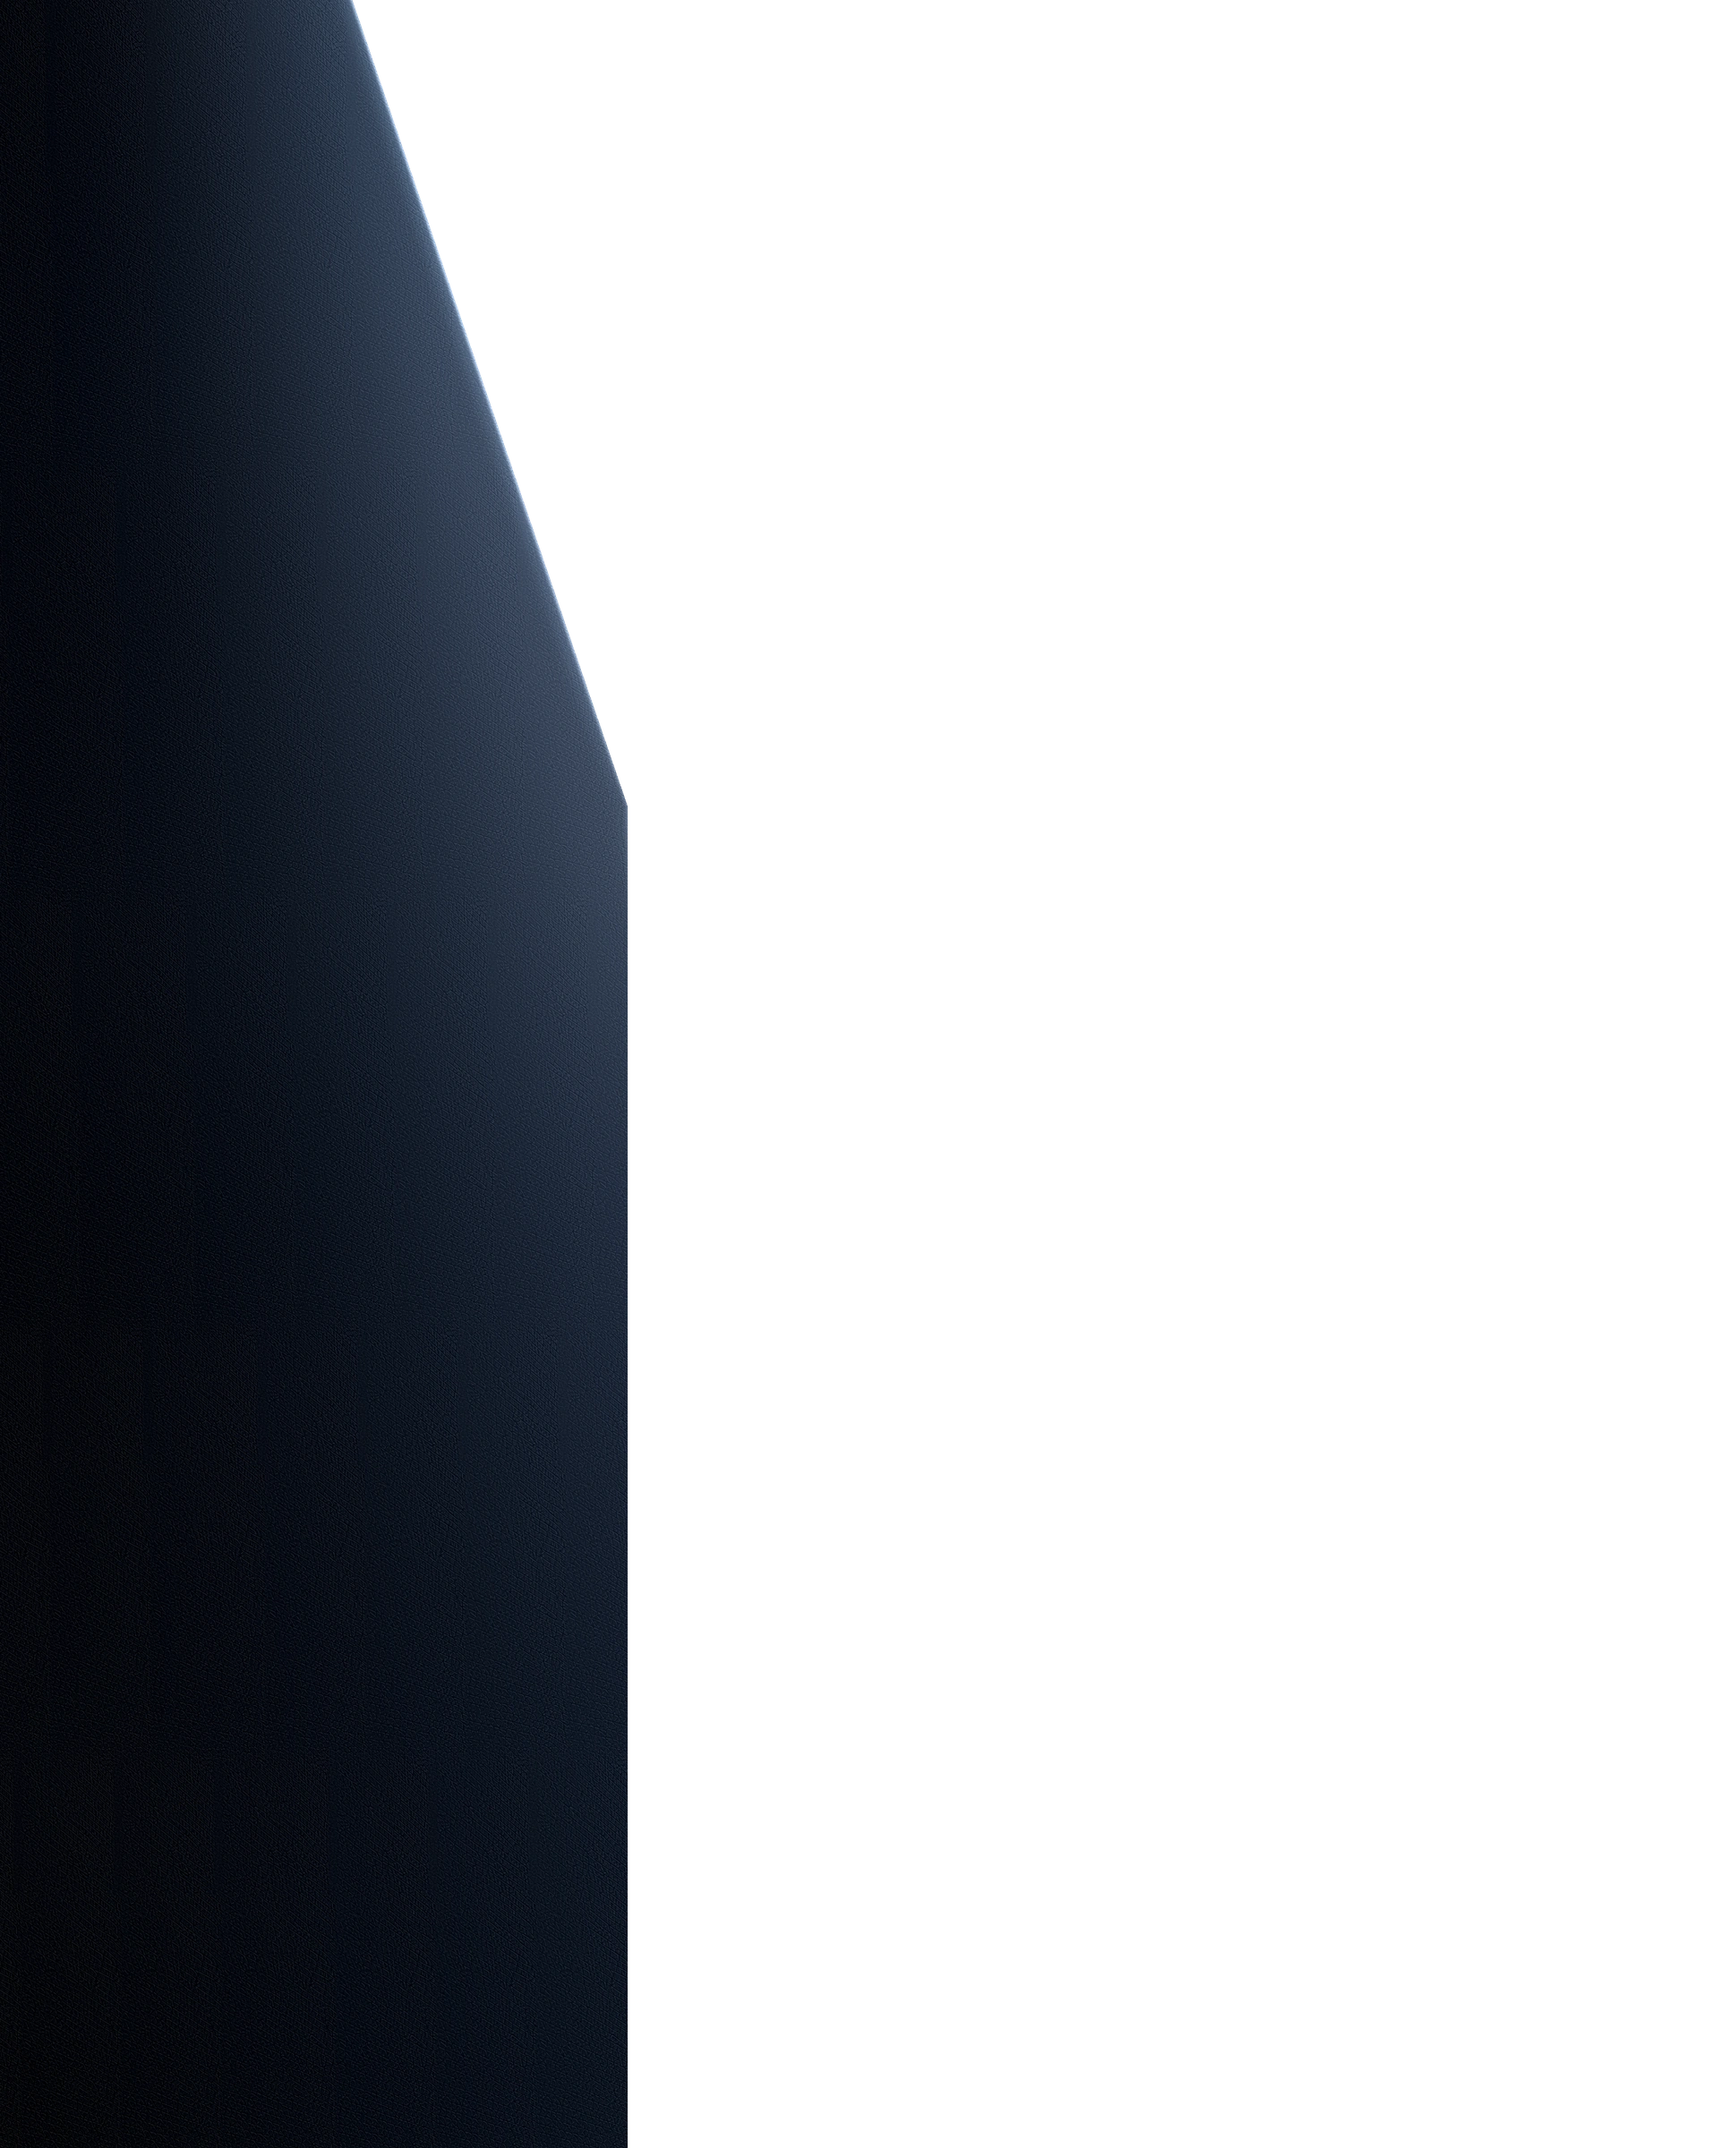
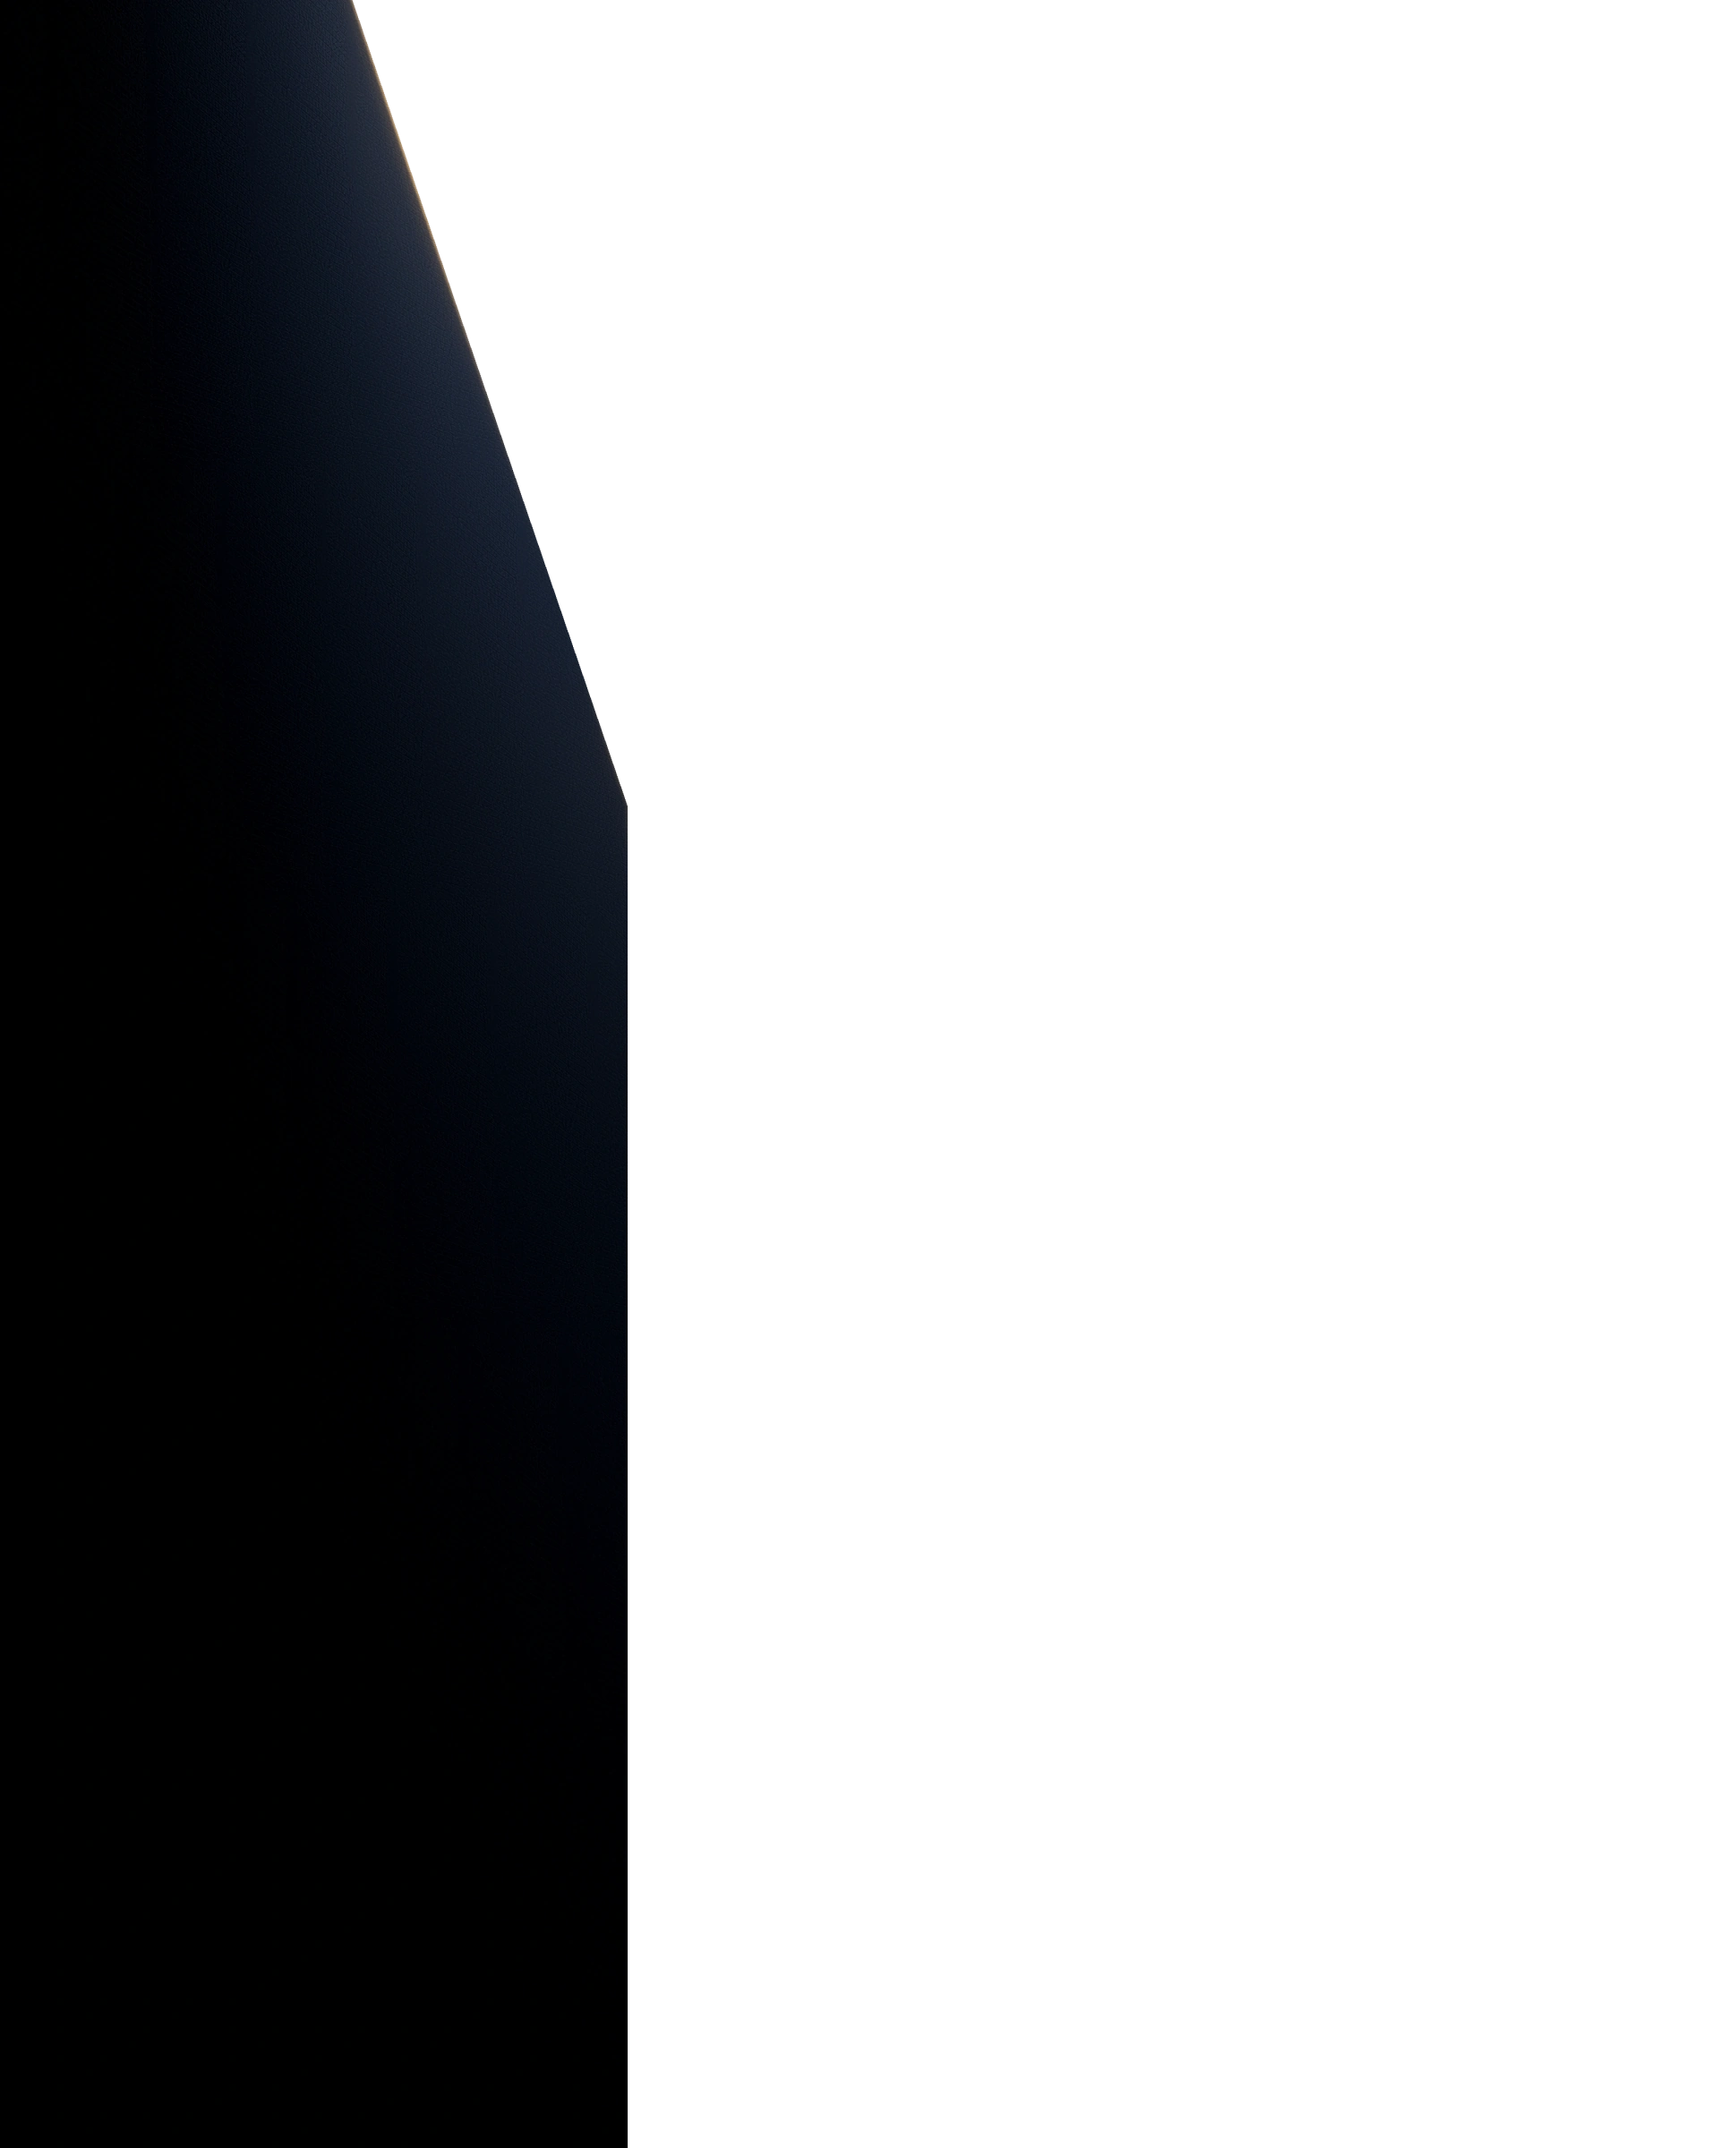
feat: sync responsive dark wall variants

Changed region(s): [[0.0312, 0.0, 0.375, 1.0]]

diff --git a/index.html b/index.html
@@ -149,13 +149,13 @@
                 <img id="ship" src="images/ship.webp" alt="Playbook ship" fetchpriority="high" decoding="sync">
                 <div id="walls" aria-hidden="true">
                     <div id="wall-left-intro" class="wall-intro-panel">
-                        <img id="wall-left" class="wall-panel" src="images/wall-left-1280.webp?v=dark-wall-26"
-                            srcset="images/wall-left-1280.webp?v=dark-wall-26 1280w, images/wall-left-1920.webp?v=dark-wall-26 1920w, images/wall-left-2560.webp?v=dark-wall-26 2560w, images/wall-left.webp?v=dark-wall-26 3240w"
+                        <img id="wall-left" class="wall-panel" src="images/wall-left-1280.webp?v=dark-wall-27"
+                            srcset="images/wall-left-1280.webp?v=dark-wall-27 1280w, images/wall-left-1920.webp?v=dark-wall-27 1920w, images/wall-left-2560.webp?v=dark-wall-27 2560w, images/wall-left.webp?v=dark-wall-27 3240w"
                             sizes="100vw" alt="">
                     </div>
                     <div id="wall-right-intro" class="wall-intro-panel">
-                        <img id="wall-right" class="wall-panel" src="images/wall-right-1280.webp?v=dark-wall-26"
-                            srcset="images/wall-right-1280.webp?v=dark-wall-26 1280w, images/wall-right-1920.webp?v=dark-wall-26 1920w, images/wall-right-2560.webp?v=dark-wall-26 2560w, images/wall-right.webp?v=dark-wall-26 3240w"
+                        <img id="wall-right" class="wall-panel" src="images/wall-right-1280.webp?v=dark-wall-27"
+                            srcset="images/wall-right-1280.webp?v=dark-wall-27 1280w, images/wall-right-1920.webp?v=dark-wall-27 1920w, images/wall-right-2560.webp?v=dark-wall-27 2560w, images/wall-right.webp?v=dark-wall-27 3240w"
                             sizes="100vw" alt="">
                     </div>
                 </div>
